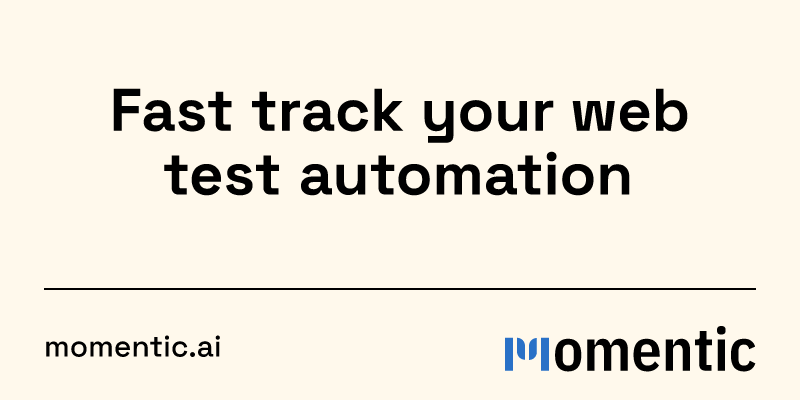
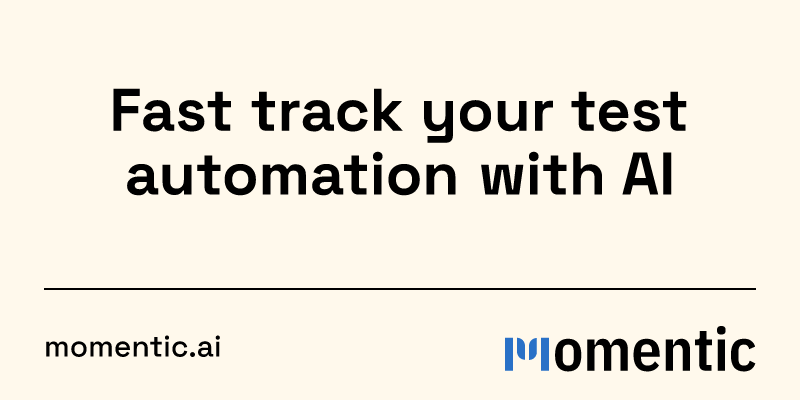
ADD AI

diff --git a/components/home/hero.tsx b/components/home/hero.tsx
@@ -18,11 +18,16 @@ export function Hero() {
         <div className="relative pt-20 md:pt-36 ml-auto">
           <div className="lg:w-[70%] text-center mx-auto">
             <h1 className="text-zinc-900 dark:text-white font-extrabold text-5xl md:text-6xl xl:text-7xl">
-              Fast track your web test automation
+              Fast track your test automation{" "}
+              <span className="gradient-text inline-block">with AI</span>
             </h1>
             <p className="mt-8 text-xl text-zinc-600 dark:text-zinc-300 leading-8">
-              Create and run intelligent E2E tests with natural language. No
-              code required.
+              Momentic enables developers to deploy AI agents to test web apps
+              end-to-end.{" "}
+              <span className="font-medium dark:text-zinc-100 whitespace-nowrap">
+                No code required
+              </span>{" "}
+              - just describe user flows using natural language.
             </p>
             <div className="mt-16 flex flex-wrap justify-center gap-y-4 gap-x-6">
               <Link

diff --git a/styles/global.css b/styles/global.css
@@ -23,23 +23,14 @@ body {
     url(https://grainy-gradients.vercel.app/noise.svg);
 }
 
-html[class~="dark"] #hero {
-  background: linear-gradient(to bottom, #111 50%, #2a2044af 100%),
-    url(https://grainy-gradients.vercel.app/noise.svg);
-}
-
-.gradient-bg {
-  background: linear-gradient(#a788ec, #8066b7);
-}
-
 .gradient-text {
   --bg-size: 400%;
-  background: linear-gradient(90deg, #efa0a5, #a788ec, #efa0a5) 0 0 /
+  background: linear-gradient(90deg, #77a2d4, #2971c7, #77a2d4) 0 0 /
     var(--bg-size) 100%;
   background-clip: text;
   -webkit-background-clip: text;
   -webkit-text-fill-color: transparent;
-  filter: drop-shadow(0px 3.5px #c0beea8f);
+  filter: drop-shadow(0px 3.5px #c5d4e2);
 }
 
 @media (prefers-reduced-motion: no-preference) {

diff --git a/theme.config.tsx b/theme.config.tsx
@@ -108,7 +108,7 @@ const config: DocsThemeConfig = {
 
     const ogConfig = {
       title: "Momentic",
-      description: "Fast track your web test automation",
+      description: "Fast track your web test automation with AI",
       author: {
         twitter: "MomenticAI",
       },

diff --git a/components/home/faq.tsx b/components/home/faq.tsx
@@ -40,7 +40,7 @@ const faq = [
     answer: (
       <>
         Describe a user flow using natural language and our AI will do the rest.
-        Zero code required and no engineers needed.
+        Zero code required.
       </>
     ),
   },
